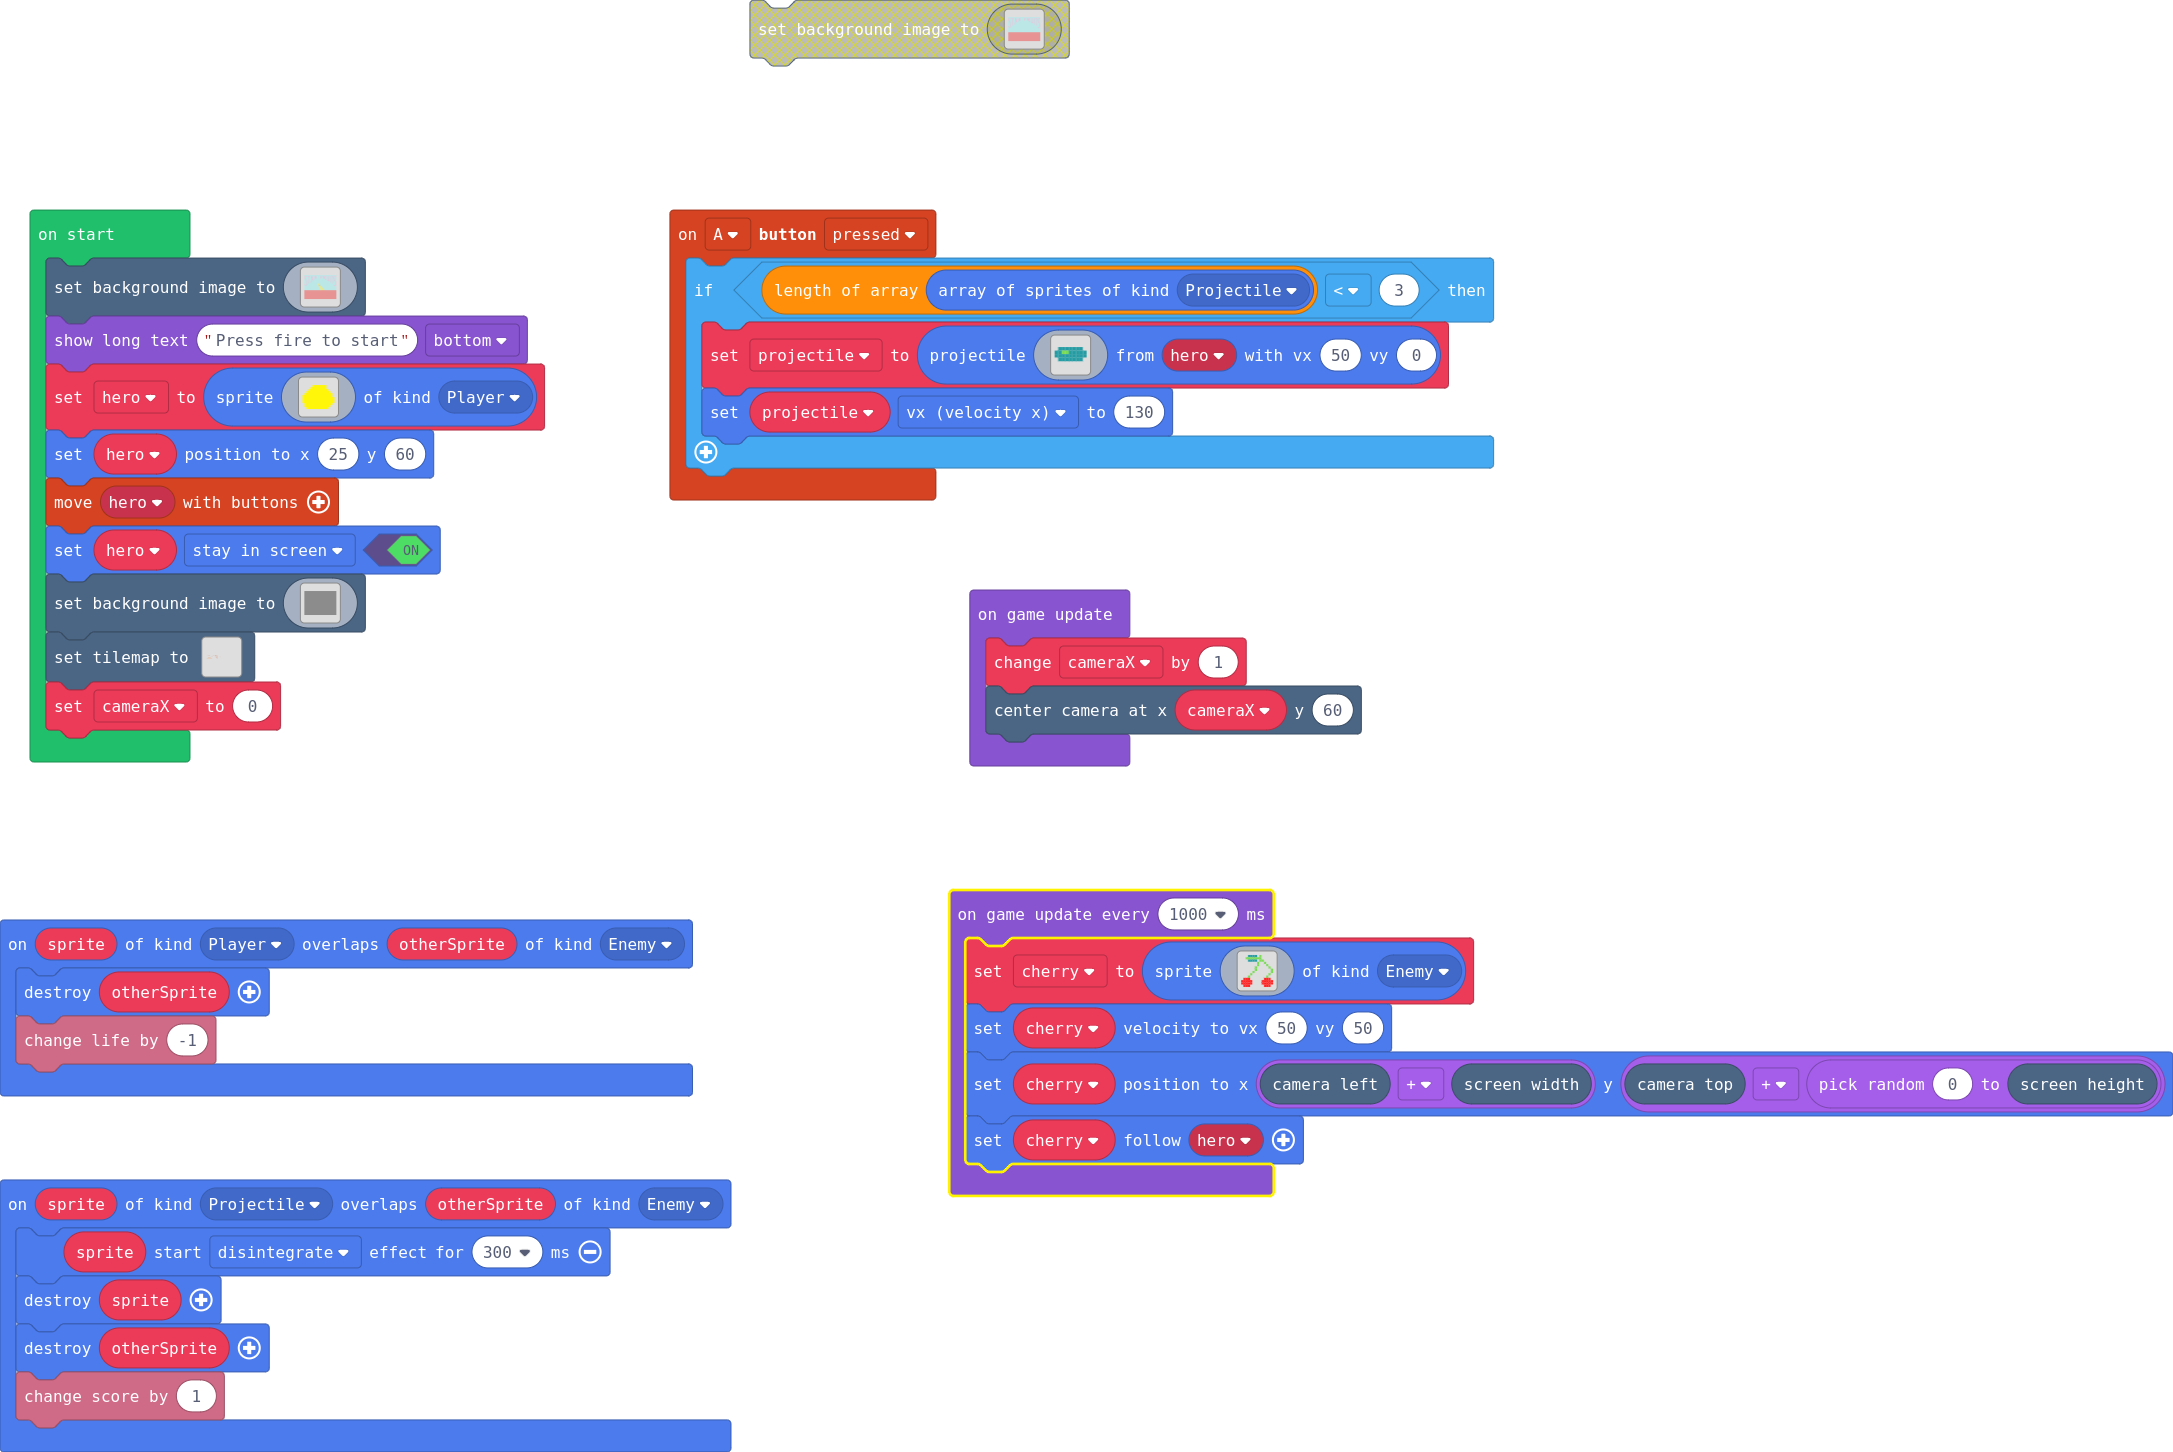
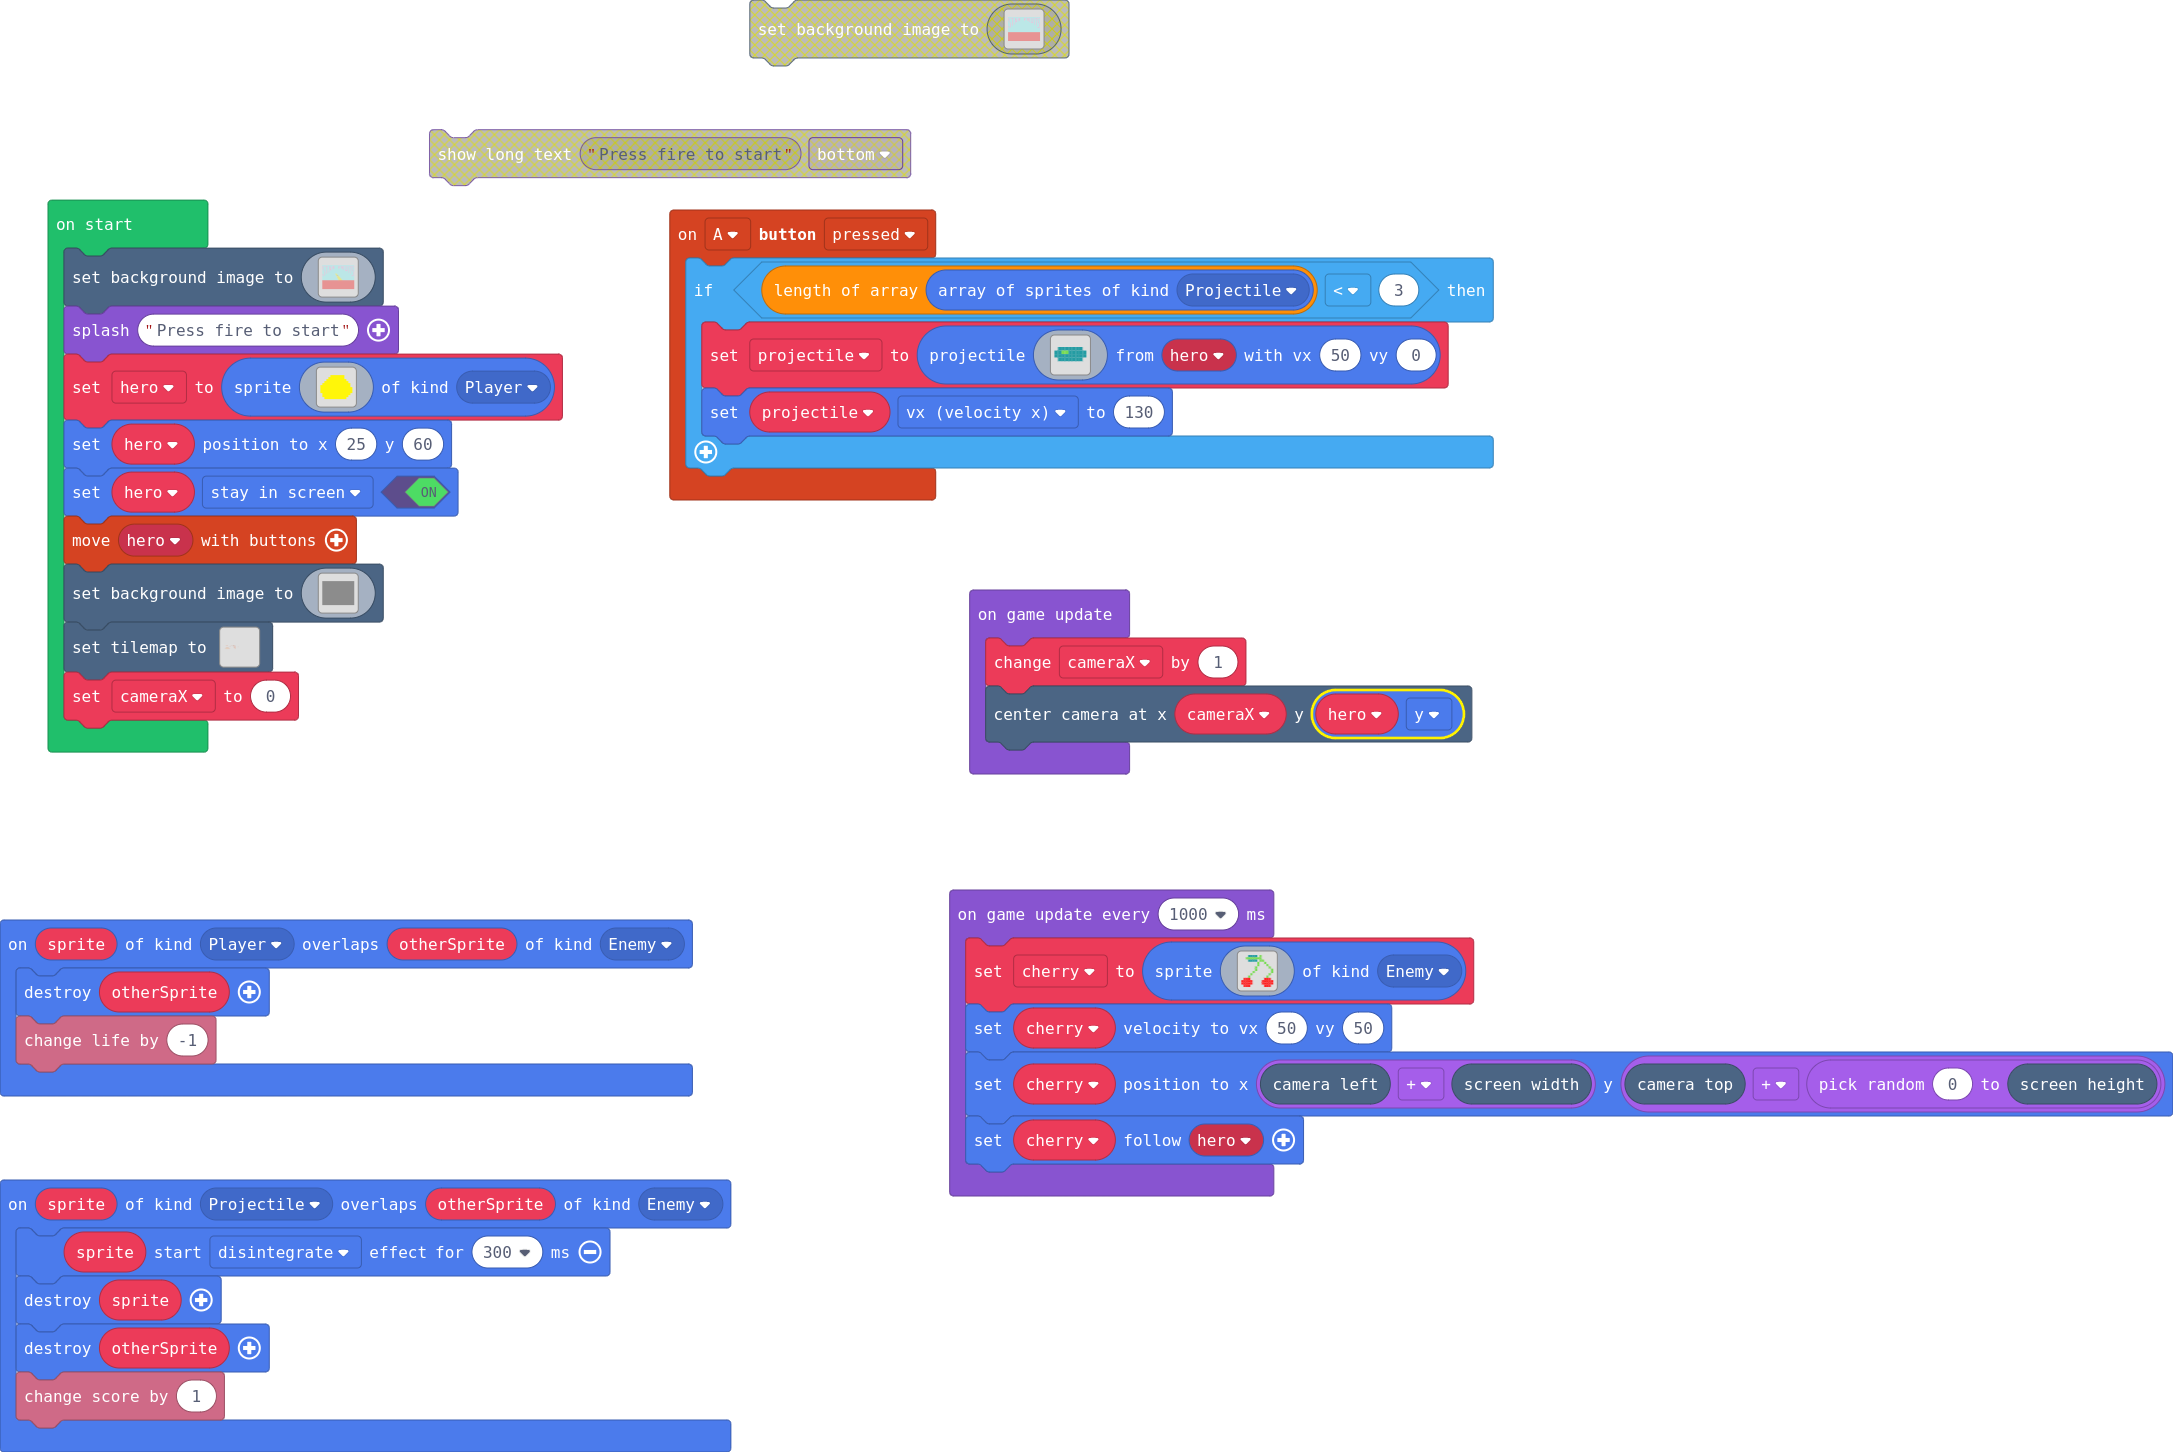
Muros en tileset y movimiento vertical de la cámara

diff --git a/main.ts b/main.ts
@@ -415,7 +415,7 @@ scene.setBackgroundImage(img`
 2 2 2 2 2 2 2 2 2 2 2 2 2 2 2 2 2 2 2 2 2 2 2 2 2 2 2 2 2 2 2 2 2 2 2 2 2 2 2 2 2 2 2 2 2 2 2 2 2 2 2 2 2 2 2 2 2 2 2 2 2 2 2 2 2 2 2 2 2 2 2 2 2 2 2 2 2 2 2 2 2 2 2 2 2 2 2 2 2 2 2 2 2 2 2 2 2 2 2 2 2 2 2 2 2 2 2 2 2 2 2 2 2 2 2 2 2 2 2 2 2 2 2 2 2 2 2 2 2 2 2 2 2 2 2 2 2 2 2 2 2 2 2 2 2 2 2 2 2 2 2 2 2 2 2 2 2 2 2 2 
 2 2 2 2 2 2 2 2 2 2 2 2 2 2 2 2 2 2 2 2 2 2 2 2 2 2 2 2 2 2 2 2 2 2 2 2 2 2 2 2 2 2 2 2 2 2 2 2 2 2 2 2 2 2 2 2 2 2 2 2 2 2 2 2 2 2 2 2 2 2 2 2 2 2 2 2 2 2 2 2 2 2 2 2 2 2 2 2 2 2 2 2 2 2 2 2 2 2 2 2 2 2 2 2 2 2 2 2 2 2 2 2 2 2 2 2 2 2 2 2 2 2 2 2 2 2 2 2 2 2 2 2 2 2 2 2 2 2 2 2 2 2 2 2 2 2 2 2 2 2 2 2 2 2 2 2 2 2 2 2 
 `)
-game.showLongText("Press fire to start", DialogLayout.Bottom)
+game.splash("Press fire to start")
 hero = sprites.create(img`
 . . . . . 5 5 5 5 5 5 5 . . . . 
 . . . . 5 5 5 5 5 5 5 5 . . . . 
@@ -431,8 +431,8 @@ hero = sprites.create(img`
 . . 5 5 5 5 5 5 5 5 5 5 5 . . . 
 `, SpriteKind.Player)
 hero.setPosition(25, 60)
-controller.moveSprite(hero)
 hero.setFlag(SpriteFlag.StayInScreen, true)
+controller.moveSprite(hero)
 scene.setBackgroundImage(img`
 f f f f f f f f f f f f f f f f f f f f f f f f f f f f f f f f f f f f f f f f f f f f f f f f f f f f f f f f f f f f f f f f f f f f f f f f f f f f f f f f f f f f f f f f f f f f f f f f f f f f f f f f f f f f f f f f f f f f f f f f f f f f f f f f f f f f f f f f f f f f f f f f f f f f f f f f f f f f f f f f 
 f f f f f f f f f f f f f f f f f f f f f f f f f f f f f f f f f f f f f f f f f f f f f f f f f f f f f f f f f f f f f f f f f f f f f f f f f f f f f f f f f f f f f f f f f f f f f f f f f f f f f f f f f f f f f f f f f f f f f f f f f f f f f f f f f f f f f f f f f f f f f f f f f f f f f f f f f f f f f f f f 
@@ -558,22 +558,22 @@ f f f f f f f f f f f f f f f f f f f f f f f f f f f f f f f f f f f f f f f f 
 tiles.setTilemap(tiles.createTilemap(
[1 lines of base64/hex data omitted]
             img`
-. . . . . . . . . . . . . . . . . . . . . . . . . . . . . . . . . . . . . . . . . . . . . . . . . . . . . . . . . . . . . . . . . . . . . . . . . . . . . . . . . . . . . . . . . . . . . . . . . . . . . . . . . . . . . . . . . . . . . . . . . . . . . . . . . . . . . . . . . . . . . . . . . . . . . . 
-. . . . . . . . . . . . . . . . . . . . . . . . . . . . . . . . . . . . . . . . . . . . . . . . . . . . . . . . . . . . . . . . . . . . . . . . . . . . . . . . . . . . . . . . . . . . . . . . . . . . . . . . . . . . . . . . . . . . . . . . . . . . . . . . . . . . . . . . . . . . . . . . . . . . . . 
-. . . . . . . . . . . . . . . . . . . . . . . . . . . . . . . . . . . . . . . . . . . . . . . . . . . . . . . . . . . . . . . . . . . . . . . . . . . . . . . . . . . . . . . . . . . . . . . . . . . . . . . . . . . . . . . . . . . . . . . . . . . . . . . . . . . . . . . . . . . . . . . . . . . . . . 
-. . . . . . . . . . . . . . . . . . . . . . . . . . . . . . . . . . . . . . . . . . . . . . . . . . . . . . . . . . . . . . . . . . . . . . . . . . . . . . . . . . . . . . . . . . . . . . . . . . . . . . . . . . . . . . . . . . . . . . . . . . . . . . . . . . . . . . . . . . . . . . . . . . . . . . 
-. . . . . . . . . . . . . . . . . . . . . . . . . . . . . . . . . . . . . . . . . . . . . . . . . . . . . . . . . . . . . . . . . . . . . . . . . . . . . . . . . . . . . . . . . . . . . . . . . . . . . . . . . . . . . . . . . . . . . . . . . . . . . . . . . . . . . . . . . . . . . . . . . . . . . . 
-. . . . . . . . . . . . . . . . . . . . . . . . . . . . . . . . . . . . . . . . . . . . . . . . . . . . . . . . . . . . . . . . . . . . . . . . . . . . . . . . . . . . . . . . . . . . . . . . . . . . . . . . . . . . . . . . . . . . . . . . . . . . . . . . . . . . . . . . . . . . . . . . . . . . . . 
-. . . . . . . . . . . . . . . . . . . . . . . . . . . . . . . . . . . . . . . . . . . . . . . . . . . . . . . . . . . . . . . . . . . . . . . . . . . . . . . . . . . . . . . . . . . . . . . . . . . . . . . . . . . . . . . . . . . . . . . . . . . . . . . . . . . . . . . . . . . . . . . . . . . . . . 
-. . . . . . . . . . . . . . . . . . . . . . . . . . . . . . . . . . . . . . . . . . . . . . . . . . . . . . . . . . . . . . . . . . . . . . . . . . . . . . . . . . . . . . . . . . . . . . . . . . . . . . . . . . . . . . . . . . . . . . . . . . . . . . . . . . . . . . . . . . . . . . . . . . . . . . 
-. . . . . . . . . . . . . . . . . . . . . . . . . . . . . . . . . . . . . . . . . . . . . . . . . . . . . . . . . . . . . . . . . . . . . . . . . . . . . . . . . . . . . . . . . . . . . . . . . . . . . . . . . . . . . . . . . . . . . . . . . . . . . . . . . . . . . . . . . . . . . . . . . . . . . . 
-. . . . . . . . . . . . . . . . . . . . . . . . . . . . . . . . . . . . . . . . . . . . . . . . . . . . . . . . . . . . . . . . . . . . . . . . . . . . . . . . . . . . . . . . . . . . . . . . . . . . . . . . . . . . . . . . . . . . . . . . . . . . . . . . . . . . . . . . . . . . . . . . . . . . . . 
-. . . . . . . . . . . . . . . . . . . . . . . . . . . . . . . . . . . . . . . . . . . . . . . . . . . . . . . . . . . . . . . . . . . . . . . . . . . . . . . . . . . . . . . . . . . . . . . . . . . . . . . . . . . . . . . . . . . . . . . . . . . . . . . . . . . . . . . . . . . . . . . . . . . . . . 
-. . . . . . . . . . . . . . . . . . . . . . . . . . . . . . . . . . . . . . . . . . . . . . . . . . . . . . . . . . . . . . . . . . . . . . . . . . . . . . . . . . . . . . . . . . . . . . . . . . . . . . . . . . . . . . . . . . . . . . . . . . . . . . . . . . . . . . . . . . . . . . . . . . . . . . 
-. . . . . . . . . . . . . . . . . . . . . . . . . . . . . . . . . . . . . . . . . . . . . . . . . . . . . . . . . . . . . . . . . . . . . . . . . . . . . . . . . . . . . . . . . . . . . . . . . . . . . . . . . . . . . . . . . . . . . . . . . . . . . . . . . . . . . . . . . . . . . . . . . . . . . . 
-. . . . . . . . . . . . . . . . . . . . . . . . . . . . . . . . . . . . . . . . . . . . . . . . . . . . . . . . . . . . . . . . . . . . . . . . . . . . . . . . . . . . . . . . . . . . . . . . . . . . . . . . . . . . . . . . . . . . . . . . . . . . . . . . . . . . . . . . . . . . . . . . . . . . . . 
-. . . . . . . . . . . . . . . . . . . . . . . . . . . . . . . . . . . . . . . . . . . . . . . . . . . . . . . . . . . . . . . . . . . . . . . . . . . . . . . . . . . . . . . . . . . . . . . . . . . . . . . . . . . . . . . . . . . . . . . . . . . . . . . . . . . . . . . . . . . . . . . . . . . . . . 
-. . . . . . . . . . . . . . . . . . . . . . . . . . . . . . . . . . . . . . . . . . . . . . . . . . . . . . . . . . . . . . . . . . . . . . . . . . . . . . . . . . . . . . . . . . . . . . . . . . . . . . . . . . . . . . . . . . . . . . . . . . . . . . . . . . . . . . . . . . . . . . . . . . . . . . 
+. . . . . . . . . 2 2 2 2 2 2 2 2 2 2 . . . . . . . . . . . . . . . . . . . . . . . . . 2 2 2 2 2 2 2 2 2 2 . . . . . . . . . . . . . . . . . . . . . . . . . . . . . . . . . . . . . . . . . . . . . . . . . . . . . . . . . . . . . . . . . . . . . . . . . . . . . . . . . . . . . . . . . . . . . . . . 
+. . . . . . . . . . . . . 2 2 2 2 . . . . . . . . . . . . . . . . . . . . . . . . . . . 2 2 . . . . 2 2 2 . . . . . . . . . . . . . . . . . . . . . . . . . . . . . . . . . . . . . . . . . . . . . . . . . . . . . . . . . . . . . . . . . . . . . . . . . . . . . . . . . . . . . . . . . . . . . . . . . 
+. . . . . . . . . . . . . . 2 2 . . . . . . . . . . . . . . . . . 2 2 . . . . . . . . . 2 2 . . . . 2 2 . . . . . . . . . . . . . . . . . . . . . . . . . . . . . . . . . . . . . . . . . . . . . . . . . . . . . . . . . . . . . . . . . . . . . . . . . . . . . . . . . . . . . . . . . . . . . . . . . . 
+. . . . . . . . . . . . . . . . . . . . . . . . . . . . . . . . . 2 2 . . . . . . . . . . 2 2 . . . . . . . . . . . . . . . . . . . . . . . . . . . . . . . . . . . . . . . . . . . . . . . . . . . . . . . . . . . . . . . . . . . . . . . . . . . . . . . . . . . . . . . . . . . . . . . . . . . . . . . 
+. . . . . . . . . . . . . . . . . . . . . . . . . . . . . . . . . . . . . . . . . . . . . . 2 2 . . . . . . . . . . . . . . . . . . . . . . . . . . . . . . . . . . . . . . . . . . . . . . . . . . . . . . . . . . . . . . . . . . . . . . . . . . . . . . . . . . . . . . . . . . . . . . . . . . . . . . 
+. . . . . . . . . . . . . . . . . . . . . . . . . . . . . . . . . . . . . . . . . . . . . . 2 2 . . . . . . . . . . . . . . . . . . . . . . . . . . . . . . . . . . . . . . . . . . . . . . . . . . . . . . . . . . . . . . . . . . . . . . . . . . . . . . . . . . . . . . . . . . . . . . . . . . . . . . 
+. . . . . . . . . . . . . . . . . . . . . . . . . . . 2 2 2 . . . . . . . . . . . . . . . . 2 2 . . . . . 2 2 . . . . . . . . . . . . . . . . . . . . . . . . . . . . . . . . . . . . . . . . . . . . . . . . . . . . . . . . . . . . . . . . . . . . . . . . . . . . . . . . . . . . . . . . . . . . . . . 
+. . . . . . . . . . . . . . . . . . . . . . . . . . . 2 2 2 . . . . . . . . . . . . . . . . 2 2 . . . . . 2 2 . . . . . . . . . . . . . . . . . . . . . . . . . . . . . . . . . . . . . . . . . . . . . . . . . . . . . . . . . . . . . . . . . . . . . . . . . . . . . . . . . . . . . . . . . . . . . . . 
+. . . . . . . . . . . . . . . . . . . . . . . . . . . . . . . . . . . . . . . . . . . . . . . 2 2 . . . . 2 2 . . . . . . . . . . . 2 2 . . . . . . . . . . . . . . . . . . . . . . . . . . . . . . . . . . . . . . . . . . . . . . . . . . . . . . . . . . . . . . . . . . . . . . . . . . . . . . . . . . 
+. . . . . . . . . . . . . . . . . . . . . . . . . . . . . . . . . . . . . . . . . . . . . . . . 2 2 . . . 2 2 . . . . . . . . . . . 2 2 . . . . . . . . . . . . . . . . . . . . . . . . . . . . . . . . . . . . . . . . . . . . . . . . . . . . . . . . . . . . . . . . . . . . . . . . . . . . . . . . . . 
+. . . . . . . . . . . . . . . . . . . . . . . . . . . . . . . . . . . . . . . . . . . . . . . . 2 2 2 . . 2 2 . . . . . . . . . . . . . . . . . . . . . . . . . . . . . . . . . . . . . . . . . . . . . . . . . . . . . . . . . . . . . . . . . . . . . . . . . . . . . . . . . . . . . . . . . . . . . . . 
+. . . . . . . . . . . . . . . . . . . . . . . . . . . . . . . . . . . . . . . . . . . . . . . . 2 2 2 . . 2 2 . . . . . . . . . . . . . . . . . . . . . . . . . . . . . . . . . . . . . . . . . . . . . . . . . . . . . . . . . . . . . . . . . . . . . . . . . . . . . . . . . . . . . . . . . . . . . . . 
+. . . . . . . . . . . 2 2 2 2 2 2 2 2 2 2 2 2 . . . . . . . . . . . . . . . . . . . . . . . . . . . . . . 2 2 . . . . . . . . . . . . . . . . . . . . . . . . . . . . . . . . . . . . . . . . . . . . . . . . . . . . . . . . . . . . . . . . . . . . . . . . . . . . . . . . . . . . . . . . . . . . . . . 
+. . . . . . . . . . 2 2 2 2 2 2 2 2 2 2 2 2 2 2 . . . . . . . . . . . . . . . . . . . . . . . . . . . . . 2 2 . . . . . . . . . . . . . . . . . . . . . . . . . . . . . . . . . . . . . . . . . . . . . . . . . . . . . . . . . . . . . . . . . . . . . . . . . . . . . . . . . . . . . . . . . . . . . . . 
+. . . . . . . . 2 2 2 2 2 2 2 2 2 2 2 2 2 2 2 2 2 2 2 2 . . . . . . . . . . . . . . . . . . . . . . . . . 2 2 . . . . . . . . . . . . . . . . . . . . . . . . . . . . . . . . . . . . . . . . . . . . . . . . . . . . . . . . . . . . . . . . . . . . . . . . . . . . . . . . . . . . . . . . . . . . . . . 
+. . . . . . . 2 2 2 2 2 2 2 2 2 2 2 2 2 2 2 2 2 2 2 2 2 2 . . . . . . . . . . . . . . . . . . . . . . . 2 2 2 2 . . . . . . . . . . . . . . . . . . . . . . . . . . . . . . . . . . . . . . . . . . . . . . . . . . . . . . . . . . . . . . . . . . . . . . . . . . . . . . . . . . . . . . . . . . . . . . 
 `,
             [myTiles.tile0,myTiles.tile1,myTiles.tile2,myTiles.tile3,myTiles.tile4,myTiles.tile5,myTiles.tile6,myTiles.tile7,myTiles.tile8,myTiles.tile9,myTiles.tile10,myTiles.tile11,myTiles.tile12,myTiles.tile13],
             TileScale.Sixteen
@@ -581,7 +581,7 @@ tiles.setTilemap(tiles.createTilemap(
 let cameraX = 0
 game.onUpdate(function () {
     cameraX += 1
-    scene.centerCameraAt(cameraX, 60)
+    scene.centerCameraAt(cameraX, hero.y)
 })
 game.onUpdateInterval(1000, function () {
     cherry = sprites.create(img`
